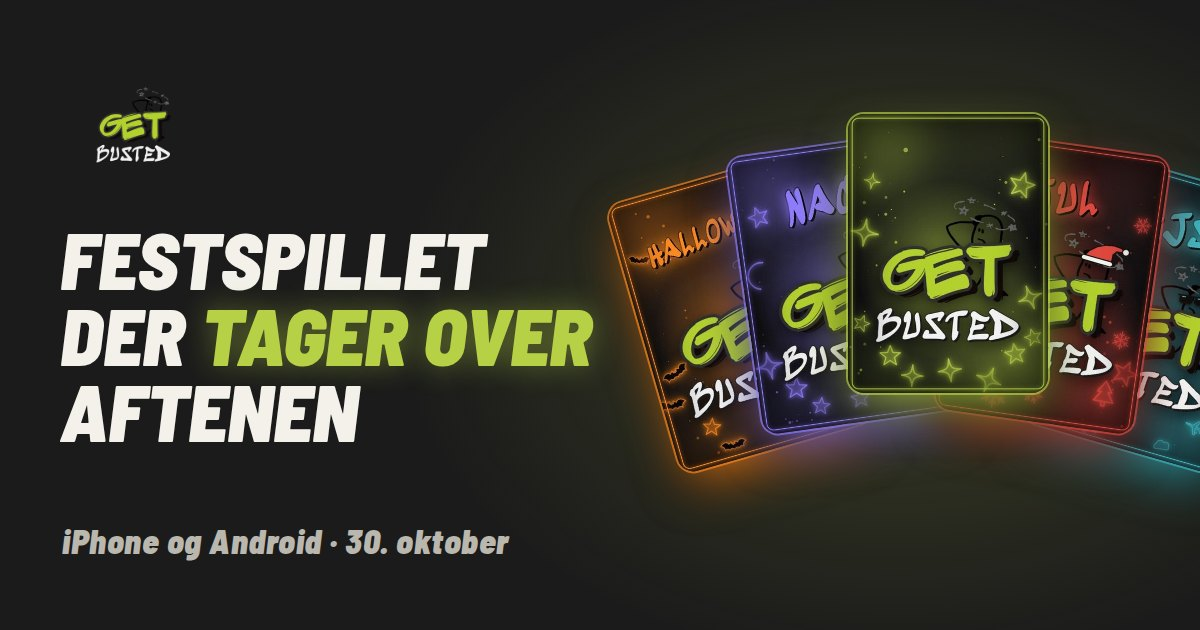
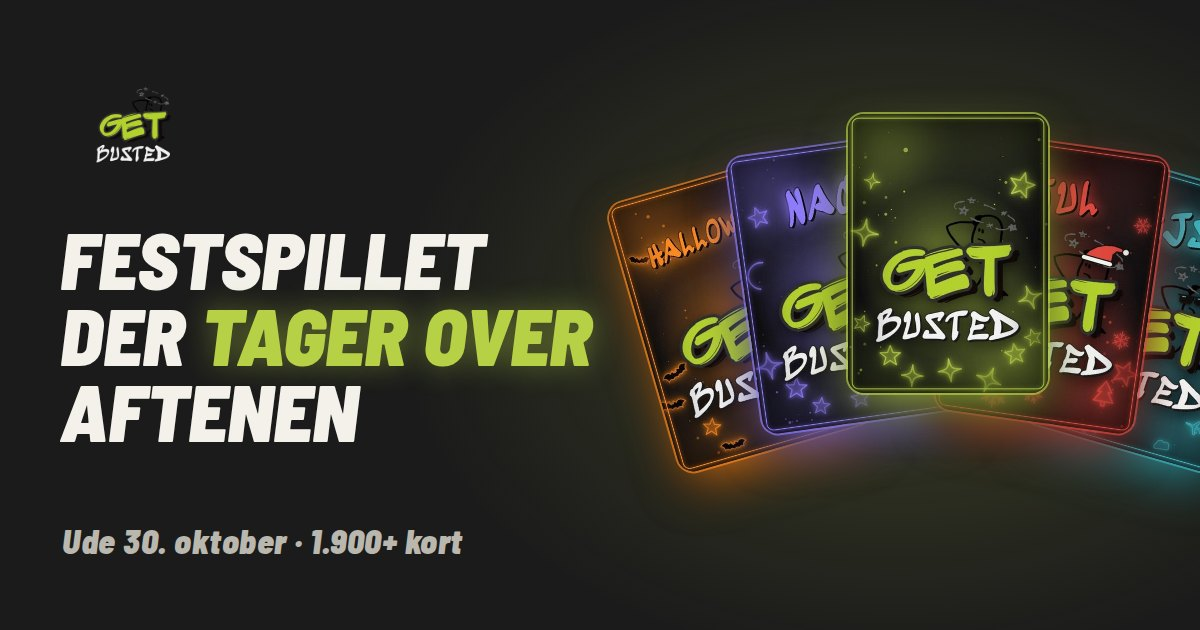
iPhone fallback: IOS_READY in season.js (test with ?ios=0), share images say only «Out 30 October»
Claude-Session: https://claude.ai/code/session_01DZ718GXTXVtGR8cwb9rukA

Changed region(s): [[0.0617, 0.8444, 0.4317, 0.9048]]

diff --git a/season.js b/season.js
@@ -14,6 +14,9 @@
  */
 (function () {
   var LAUNCH = '2026-10-30'; // Flyttes lanseringen: endre datoen her.
+  // iPhone klar til LAUNCH? false = App Store-merket sier «Snart på» før lansering, og FAQ sier Android først.
+  // Etter lansering styres App Store-merket av STORE.ios (tom = «Snart på»).
+  var IOS_READY = true && !/[?&]ios=0/.test(location.search); // test: ?ios=0
   var STORE = {
     play: 'https://play.google.com/store/apps/details?id=no.getbusted.app',
     ios: '' // Lim inn App Store-lenken (https://apps.apple.com/...) når Apple har godkjent appen.
@@ -35,16 +38,16 @@
   var LANG = (document.documentElement.lang || 'no').slice(0, 2);
   var TX = {
     no: { k: {}, isNew: 'Ny', hot: 'Aktuell nå', newPack: 'Ny pakke', out: ' er ute', ready: '-pakken er klar', start: '-pakken er med fra start',
-          L: { dl: 'Last ned fra', soon: 'Snart på', cta: 'Last ned', group: 'Ute nå', q: 'Hvor laster jeg ned appen?', a: 'Søk etter «Get Busted» i App Store eller Google Play, eller trykk på knappene øverst på siden.', a1: 'Get Busted er ute på Google Play. iPhone-versjonen kommer veldig snart. Trykk på knappen øverst på siden.' } },
+          L: { dl: 'Last ned fra', soon: 'Snart på', cta: 'Last ned', group: 'Ute nå', q: 'Hvor laster jeg ned appen?', a: 'Søk etter «Get Busted» i App Store eller Google Play, eller trykk på knappene øverst på siden.', pre: 'Ute 30. oktober på Android. iPhone-versjonen kommer like etter.', a1: 'Get Busted er ute på Google Play. iPhone-versjonen kommer veldig snart. Trykk på knappen øverst på siden.' } },
     en: { k: { host: 'Autumn nights', halloween: 'Ready for Halloween', julebord: 'Office party season?', jul: 'Merry Christmas', nyttar: 'New Year', vinter: 'Winter', paske: 'Happy Easter', vaar: 'Spring', mai17: 'Spring', sommer: 'Summer' },
           isNew: 'New', hot: 'In season', newPack: 'New pack', out: ' is out', ready: ' pack is ready', start: ' pack is in from day one',
-          L: { dl: 'Download on', soon: 'Coming soon to', cta: 'Download', group: 'Out now', q: 'Where do I get it?', a: 'Search for “Get Busted” in the App Store or on Google Play, or tap the buttons at the top of the page.', a1: 'Get Busted is out on Google Play. The iPhone version is coming very soon. Tap the button at the top of the page.' } },
+          L: { dl: 'Download on', soon: 'Coming soon to', cta: 'Download', group: 'Out now', q: 'Where do I get it?', a: 'Search for “Get Busted” in the App Store or on Google Play, or tap the buttons at the top of the page.', pre: 'Out on Android on 30 October. The iPhone version follows shortly after.', a1: 'Get Busted is out on Google Play. The iPhone version is coming very soon. Tap the button at the top of the page.' } },
     sv: { k: { host: 'Höstkvällar', halloween: 'Redo för halloween', julebord: 'Dags för julbord?', jul: 'God jul', nyttar: 'Gott nytt år', vinter: 'Vinter', paske: 'Glad påsk', vaar: 'Vår', mai17: 'Vår', sommer: 'Sommar' },
           isNew: 'Ny', hot: 'Aktuell nu', newPack: 'Nytt paket', out: ' är ute', ready: '-paketet är klart', start: '-paketet är med från start',
-          L: { dl: 'Hämta i', soon: 'Snart i', cta: 'Ladda ner', group: 'Ute nu', q: 'Var laddar jag ner den?', a: 'Sök på «Get Busted» i App Store eller Google Play, eller tryck på knapparna högst upp på sidan.', a1: 'Get Busted finns på Google Play. iPhone-versionen kommer väldigt snart. Tryck på knappen högst upp på sidan.' } },
+          L: { dl: 'Hämta i', soon: 'Snart i', cta: 'Ladda ner', group: 'Ute nu', q: 'Var laddar jag ner den?', a: 'Sök på «Get Busted» i App Store eller Google Play, eller tryck på knapparna högst upp på sidan.', pre: 'Ute på Android 30 oktober. iPhone-versionen kommer strax efter.', a1: 'Get Busted finns på Google Play. iPhone-versionen kommer väldigt snart. Tryck på knappen högst upp på sidan.' } },
     da: { k: { host: 'Efterårsaftener', halloween: 'Klar til halloween', julebord: 'Skal I til julefrokost?', jul: 'Glædelig jul', nyttar: 'Godt nytår', vinter: 'Vinter', paske: 'God påske', vaar: 'Forår', mai17: 'Forår', sommer: 'Sommer' },
           isNew: 'Ny', hot: 'Aktuel nu', newPack: 'Ny pakke', out: ' er ude', ready: '-pakken er klar', start: '-pakken er med fra start',
-          L: { dl: 'Hent i', soon: 'Snart i', cta: 'Hent appen', group: 'Ude nu', q: 'Hvor henter jeg appen?', a: 'Søg efter «Get Busted» i App Store eller Google Play, eller tryk på knapperne øverst på siden.', a1: 'Get Busted er ude på Google Play. iPhone-versionen kommer meget snart. Tryk på knappen øverst på siden.' } }
+          L: { dl: 'Hent i', soon: 'Snart i', cta: 'Hent appen', group: 'Ude nu', q: 'Hvor henter jeg appen?', a: 'Søg efter «Get Busted» i App Store eller Google Play, eller tryk på knapperne øverst på siden.', pre: 'Ude på Android 30. oktober. iPhone-versionen kommer kort efter.', a1: 'Get Busted er ude på Google Play. iPhone-versionen kommer meget snart. Tryk på knappen øverst på siden.' } }
   }[LANG] || null;
   if (!TX) return;
 
@@ -86,6 +89,12 @@
   document.querySelectorAll('[data-until]').forEach(function (el) {
     if (now.getTime() >= at(el.getAttribute('data-until')) + 864e5) el.remove();
   });
+
+  // iPhone ikke klar før lansering: App Store-merket og FAQ sier Android først
+  if (!launched && !IOS_READY) {
+    document.querySelectorAll('.badge[data-store="ios"] small').forEach(function (el) { el.textContent = TX.L.soon; });
+    document.querySelectorAll('[data-launch="faq"] p').forEach(function (el) { el.textContent = TX.L.pre; });
+  }
 
   // Lansering: butikkmerkene blir lenker, og data-launch-feltene får ny tekst
   if (launched) {
